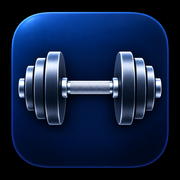
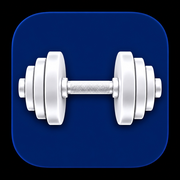
Add files via upload
Updated thumbnail icon

diff --git a/sw.js b/sw.js
@@ -1,5 +1,5 @@
 'use strict';
-const CACHE='workout-tracker-secure-v6';
+const CACHE='workout-tracker-secure-v7';
 const ASSETS=['./','./index.html','./styles.css','./app.js','./plan.json','./manifest.webmanifest','./apple-touch-icon.png','./icon-192.png','./icon-512.png'];
 self.addEventListener('install',e=>{self.skipWaiting();e.waitUntil(caches.open(CACHE).then(c=>c.addAll(ASSETS)))});
 self.addEventListener('activate',e=>e.waitUntil(Promise.all([
